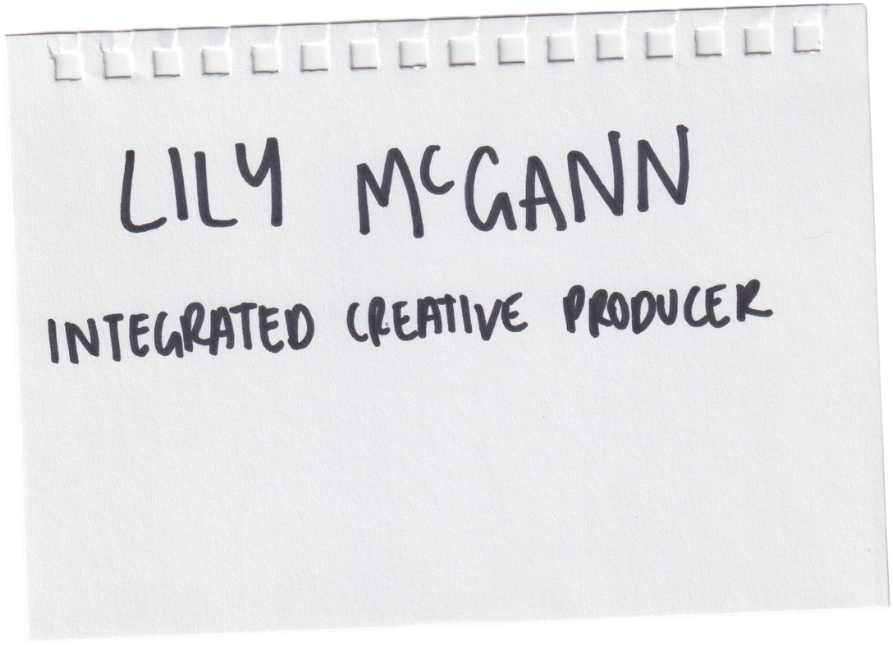
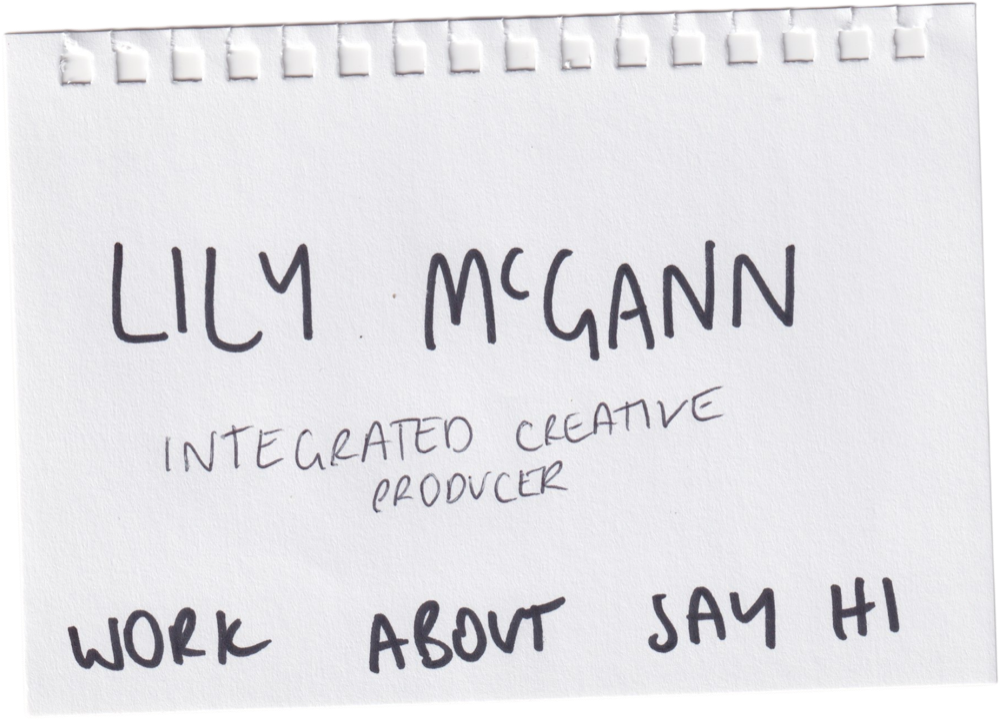
Home: new notebook with handwritten nav, invisible buttons over each word
- note-home.png is Lily's flat card with WORK / ABOUT / SAY HI written in
- Each word is a link placed over the picture (home.note.hotspots in content.js)
- Hover/keyboard focus swipes a pink highlighter across the word

diff --git a/style.css b/style.css
@@ -32,6 +32,19 @@ h1, h2 { margin: 0; font: inherit; }
 .home__nav a { padding: 6px 2px; display: inline-flex; flex-direction: column; align-items: center; }
 .home__nav a::after { content: attr(data-text); font-weight: 700; height: 0; overflow: hidden; visibility: hidden; }
 .home__nav a:hover, .home__nav a:focus-visible { font-weight: 700; }
+/* Hotspot nav: the words are drawn in the card picture; each link is an invisible box over its word.
+   Hover/focus swipes a pink highlighter across the word (multiply blend, so the ink shows through). */
+.home__nav--hotspots { inset: 0; display: block; }
+.home__nav--hotspots a { position: absolute; display: block; padding: 0; border-radius: 4px; }
+.home__nav--hotspots a::after { content: none; }
+.home__nav--hotspots a::before {
+  content: ""; position: absolute; left: -2%; right: -2%; top: 30%; bottom: 22%;
+  background: #ff97e1; mix-blend-mode: multiply; opacity: .55; border-radius: 3px;
+  transform: rotate(-2.5deg) scaleX(0); transform-origin: left center; transition: transform .28s ease;
+}
+.home__nav--hotspots a:hover, .home__nav--hotspots a:focus-visible { font-weight: inherit; }
+.home__nav--hotspots a:hover::before, .home__nav--hotspots a:focus-visible::before { transform: rotate(-2.5deg) scaleX(1); }
+.home__nav--hotspots a:focus { outline: none; }
 /* Handwritten nav: sized as a share of the card's width (cqw) so it scales with the notebook.
    --hw-cq is that share per PNG pixel. Hover fades instead of going bold. */
 .home__note { container-type: inline-size; }

diff --git a/content.js b/content.js
@@ -45,8 +45,17 @@ window.SITE = {
       left:   "6.4vw",                      // distance from the left edge
       bottom: "13vh",                       // distance from the bottom edge
       rotate: "0deg",                       // tilt, e.g. "-2deg"
-      navTop: "73%",                        // how far down the card the WORK / ABOUT / SAY HI links sit
-      navRotate: "-2.7deg",                 // tilt of the links, matched to the slope of the handwriting
+      // WORK / ABOUT / SAY HI are handwritten INTO the card picture, so each link is an invisible
+      // button placed over its word (left/top/width/height as % of the card).
+      // If you re-export the card and the words move, nudge these numbers.
+      // Set hotspots to null to go back to typed links (then navTop/navRotate apply).
+      hotspots: {
+        work:     { left: "5%",  top: "78%", width: "24%", height: "18%" },
+        about:    { left: "35%", top: "78%", width: "23.5%", height: "18%" },
+        "say-hi": { left: "63%", top: "76%", width: "29%", height: "18%" },
+      },
+      navTop: "73%",
+      navRotate: "-2.7deg",
     },
   },
 

diff --git a/main.js b/main.js
@@ -86,8 +86,20 @@
     var cimg = card.querySelector("img");
     cimg.src = n.image; cimg.alt = n.alt || "";
     var nav = $(".home__nav");
-    nav.style.top = n.navTop || "73%";
-    if (n.navRotate) nav.style.transform = "rotate(" + n.navRotate + ")";
+    if (n.hotspots) {
+      // The words are part of the picture: turn each link into an invisible button over its word.
+      nav.classList.add("home__nav--hotspots");
+      nav.querySelectorAll("a[data-page]").forEach(function (a) {
+        var box = n.hotspots[a.dataset.page];
+        if (!box) { a.hidden = true; return; }
+        a.setAttribute("aria-label", a.dataset.text || a.textContent.trim());
+        a.textContent = "";
+        a.style.left = box.left; a.style.top = box.top; a.style.width = box.width; a.style.height = box.height;
+      });
+    } else {
+      nav.style.top = n.navTop || "73%";
+      if (n.navRotate) nav.style.transform = "rotate(" + n.navRotate + ")";
+    }
     document.addEventListener("visibilitychange", function () {
       if (document.hidden) video.pause(); else if (!reduceMotion) play(video);
     });

diff --git a/index.html b/index.html
@@ -24,9 +24,9 @@
     <div class="home__note note-card">
       <img class="note-card__img" alt="">
       <nav class="home__nav" aria-label="Main">
-        <a href="/work" data-page="work" data-text="Work" data-hw="work">Work</a>
-        <a href="/about" data-page="about" data-text="About" data-hw="about">About</a>
-        <a href="/say-hi" data-page="say-hi" data-text="Say hi" data-hw="say-hi">Say hi</a>
+        <a href="/work" data-page="work" data-text="Work">Work</a>
+        <a href="/about" data-page="about" data-text="About">About</a>
+        <a href="/say-hi" data-page="say-hi" data-text="Say hi">Say hi</a>
       </nav>
     </div>
   </main>

diff --git a/CLAUDE.md b/CLAUDE.md
@@ -59,7 +59,7 @@ Lily wants **every image, video and notebook card to be replaceable without touc
 - Swapping a file with the **same filename** must just work.
 - All text and paths live in `content.js`, and the HTML stays a bare template.
 - Notebook cards are **images**: the paper and the handwritten heading are exported from Canva. Body text, links and the home nav are **live HTML** laid on top, positioned by settings in `content.js`:
-  - Home: `home.note.width`, `left`, `bottom`, `rotate`, `navTop` (how far down the card the WORK / ABOUT / SAY HI row sits).
+  - Home: `home.note.width`, `left`, `bottom`, `rotate`. Since 14 Nov 2026 the card PNG has WORK / ABOUT / SAY HI handwritten into it, so `home.note.hotspots` places an invisible link over each word (left/top/width/height as % of the card); hover swipes a pink highlighter (multiply blend). Set `hotspots: null` to fall back to typed links positioned by `navTop` / `navRotate`.
   - About / Say hi: `note.textTop` (where the text starts, as a % of card height) and `note.textSize` (text size in `cqw`, a fraction of the card's width, via container queries). Because of this, the text scales with the card and lands in the same place at every screen width, matching the Canva design.
   - If the text overflows (very narrow screens), the card grows: the image is drawn `object-fit: fill` behind an `aspect-ratio` box.
 - Handwriting: header page names, LILY McGANN, footer words and all arrows are PNGs from `SITE.handwriting`. Elements are marked `data-hw="key"` / `data-hw-arrow="left|right|up"`; `main.js` swaps the typed text for the image (typed text stays as alt text and as the fallback). Every PNG is normalised to a 24px pen stroke, so they're sized by one shared `--hw-scale` in style.css (`--hw-k` per element to nudge). The arrow is drawn pointing right; ← flips it, ↑ rotates it. The pop-up arrows are the same PNG turned white with a CSS filter.
